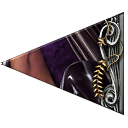
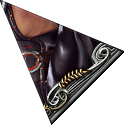
Selectable item in bopate cirlce

diff --git a/bopae_react/src/plugins/ListWithSearch.js b/bopae_react/src/plugins/ListWithSearch.js
@@ -46,6 +46,7 @@ class ListWithSearch extends Component {
 									<ListItem
 										key={i}
 										bopae={item}
+										selectedPieceNum={this.props.selectedPieceNum}
 										onClick={this.onItemChange.bind(this, item)}
 										isSelected={this.props.selectedItem === item}
 										className={nameMatches(item) ? '' : 'hidden'}
@@ -69,14 +70,14 @@ class ListItem extends Component {
 									<tr>
 										<td className="icon-cell">
 											<div className="icon">
-												{[7,8,1,2,3,4,5,6].map( i => <BopaePiece key={i} num={i} bopae={this.props.bopae}/>)}
+												{[6,7,0,1,2,3,4,5].map( i => <BopaePiece key={i} num={i} bopae={this.props.bopae}/>)}
 											</div>
 										</td>
 										<td>
 											<label>{this.props.bopae.name}</label>
 										</td>
 										<td>
-											<PieceDetail num={1} bopae={this.props.bopae}/>//TODO прокинуть номер куска
+											<PieceDetail num={this.props.selectedPieceNum} bopae={this.props.bopae}/>//TODO прокинуть номер куска
 										</td>
 									</tr>
 								</tbody>
@@ -84,28 +85,30 @@ class ListItem extends Component {
 						</div>
 	}
 }
+
 class BopaePiece extends Component{
 	render() {
-		let piece = this.props.bopae.pieces[this.props.num-1]
+		let piece = this.props.bopae.pieces[this.props.num]
 		return <div
 			className={"square piece piece-"+this.props.num}
 			style={{backgroundImage: 'url('+piece.getIconPath()+')'}}
 			></div>
 	}
 }
+
 class PieceDetail extends Component{
 	render() {
-		let piece = this.props.bopae.pieces[this.props.num]
+		let piece = this.props.bopae.pieces[this.props.num] || null
 		return (
 			<div className="piece-detail cf f_r">
 				<div className="left f_l">
 					<table>
 						<tbody>
 							{
-								Object.keys(piece.stats).forEach(statName =>
-									<tr className={piece.stats[statName].isBase === true ? 'main-stat' : ''} key={statName}>
+								piece && piece.forEachStat((statName, stat) =>
+									<tr className={stat.isBase ? 'main-stat' : ''} key={statName}>
 										<td> {statName} </td>
-										<td> {piece.stats[statName].min} - {piece.stats[statName].max} </td>
+										<td> {stat.min} - {stat.max} </td>
 									</tr>
 								)
 							}
@@ -113,7 +116,11 @@ class PieceDetail extends Component{
 					</table>
 				</div>
 				<div className="right f_r">
-					<BopaePiece num={this.props.num} bopae={this.props.bopae} />
+					{
+						this.props.num === null
+							? null
+							: <BopaePiece num={this.props.num} bopae={this.props.bopae} />
+					}
 				</div>
 			</div>
 		)

diff --git a/bopae_react/src/BopaeCircle.js b/bopae_react/src/BopaeCircle.js
@@ -1,20 +1,21 @@
 import React, { Component } from 'react'
 import './styles/bopae-circle.css'
+import bgImg from './img/bopae_circle_bg.png'
 
 const PART_WIDTH = 128
 const HOVER_DELTA_PX = 16
 
 function dir2rad(dir) {
-	return (dir-3)/4*Math.PI
+	return (dir-2)/4*Math.PI
 }
 
 function dir2deg(dir) {
-	return (dir-3)/4*180
+	return (dir-2)/4*180
 }
 
 function centerOffset(dir) {
 	let w = PART_WIDTH
-	return [[w/2,w], [0,w], [0,w/2], [0,0], [w/2,0], [w,0], [w,w/2], [w,w]][dir-1]
+	return [[w/2,w], [0,w], [0,w/2], [0,0], [w/2,0], [w,0], [w,w/2], [w,w]][dir]
 }
 
 class BopaePartMask extends Component {
@@ -36,9 +37,9 @@ class BopaePart extends Component {
 		let [hoverDX, hoverDY] = [Math.cos(angle)*HOVER_DELTA_PX, Math.sin(angle)*HOVER_DELTA_PX]
 		let transform = `translate(${hoverDX}px,${hoverDY}px)`
 		return (
-			<div className="bopae-part" style={{left: w-x0, top: w-y0, width: w, height: w}} onClick={this.props.onClick}>
+			<div className={`bopae-part${this.props.selected ? " selected" : ""}`} style={{left: w-x0, top: w-y0, width: w, height: w}} onClick={this.props.onClick}>
 				<BopaePartMask dir={this.props.dir} />
-				<img style={{transform}} alt={'bopae-'+this.props.dir} src={process.env.PUBLIC_URL +'/img/'+ this.props.name + this.props.dir +'.png'} />
+				<img style={{transform}} alt={'bopae-'+this.props.dir} src={this.props.icon} />
 			</div>
 		)
 	}
@@ -48,8 +49,15 @@ class BopaeCircle extends Component {
 	render() {
 		return (
 			<div className="bopae-circle" style={{width: PART_WIDTH*2, height: PART_WIDTH*2}}>
-				{[1,2,3,4,5,6,7,8].map((dir) =>
-					<BopaePart key={dir} dir={dir} name={this.props.name} onClick={(e) => this.props.onClick(e, dir)} />
+				<img alt="background" className="bopae-bg-image" src={bgImg} />
+				{this.props.pieces.map((piece, dir) =>
+					<BopaePart
+						key={dir}
+						dir={dir}
+						icon={piece && piece.getIconPath()}
+						selected={this.props.selectedNum === dir}
+						onClick={(e) => this.props.onClick(dir)}
+					/>
 				)}
 			</div>
 		)

diff --git a/bopae_react/src/dbutils.js b/bopae_react/src/dbutils.js
@@ -9,9 +9,6 @@ class Bopae {
 	getIconPath() {
 		return `${process.env.PUBLIC_URL}/img/${this.icon}.png`
 	}
-	getPiece(num) {
-		return this.pieces[num-1]
-	}
 }
 
 class BopaePiece {
@@ -27,6 +24,11 @@ class BopaePiece {
 	getStat(name) {
 		return name in this.stats ? this.stats[name] : [0, 0, false]
 	}
+	forEachStat(func) {
+		for (let statName in this.stats)
+			if (this.stats.hasOwnProperty(statName))
+				func(statName, this.stats[statName])
+	}
 }
 
 class BopaeDBUtils {
@@ -41,7 +43,7 @@ class BopaeDBUtils {
 
 	static convertBopae(bopae) {
 		let statsForNums = [{}, {}, {}, {}, {}, {}, {}, {}]
-		for (let statName in bopae.pieces) { //eslint-disable-line guard-for-in
+		for (let statName in bopae.pieces) {
 			if (bopae.pieces.hasOwnProperty(statName)) {
 				if (statName !== "synth") {
 					let stats = bopae.pieces[statName].trim().split(/\s+/).map(this.convertStat)
@@ -54,7 +56,7 @@ class BopaeDBUtils {
 
 		let pieces = new Array(8)
 		for (let i=0; i<pieces.length; i++) {
-			pieces[i] = new BopaePiece(i+1, bopae.icon, statsForNums[i], bopae.pieces.synth)
+			pieces[i] = new BopaePiece(i, bopae.icon, statsForNums[i], bopae.pieces.synth)
 		}
 
 		return new Bopae(bopae.name[this.lang], bopae.icon, bopae.obtaining[this.lang], pieces, bopae.bonus)

diff --git a/bopae_react/src/index.js b/bopae_react/src/index.js
@@ -2,9 +2,7 @@
 import React from 'react'
 import ReactDOM from 'react-dom'
 //собственно модули
-import BopaeList from './BopaeList'
-import BopaeCircle from './BopaeCircle'
-import BopaeCircle2 from './BopaeCircle2'
+import BopaeCalc from './BopaeCalc'
 //глобальные штучки-дрючки
 import './styles/global/reset.css'
 import './styles/global/utils.css'
@@ -14,8 +12,8 @@ import bopaeDB from './bopae.json'
 import BopaeDBUtils from './dbutils.js'
 
 let bopaes = BopaeDBUtils.convert(bopaeDB, 'ru')
-window.qwe = bopaes
-console.log(bopaes)
+window.bopaes = bopaes
+
 ReactDOM.render(
 	<div className="app">
 		<header>
@@ -28,18 +26,7 @@ ReactDOM.render(
 		<main>
 			<div className="main-bg"></div>
 			<div className="main-wrap">
-				<section>
-					<BopaeList db={bopaes}/>
-				</section>
-				<section>
-					<figure>
-						<BopaeCircle2 name={bopaes[0].icon} onClick={(e, dir) => alert('clicked on #'+dir)}/>
-					</figure>
-				</section>
-
-				{bopaes.map(item =>
-					<BopaeCircle key={item.name} name={item.icon} onClick={(e, dir) => alert(`clicked on ${item.name} #${dir}`)}/>
-				)}
+				<BopaeCalc bopaes={bopaes} />
 			</div>
 		</main>
 		<footer>

diff --git a/bopae_react/src/BopaeCalc.js b/bopae_react/src/BopaeCalc.js
@@ -1,0 +1,33 @@
+import React, { Component } from 'react'
+import BopaeList from './BopaeList'
+import BopaeCircle from './BopaeCircle'
+//import './styles/bopae-calc.css'
+
+class BopaeCalc extends Component {
+	constructor() {
+		super()
+		this.state = {
+			choosenPieces: Array(8).fill(null),
+			selectedNum: null
+		}
+	}
+	onPieceClick = (num) => {
+		this.setState({selectedNum: num})
+	}
+	render() {
+		return (
+			<div className="bopae-calc">
+				<section>
+					<BopaeList db={this.props.bopaes} selectedPieceNum={this.state.selectedNum}/>
+				</section>
+				<section>
+					<figure>
+						<BopaeCircle pieces={this.state.choosenPieces} selectedNum={this.state.selectedNum} onClick={this.onPieceClick}/>
+					</figure>
+				</section>
+			</div>
+		)
+	}
+}
+
+export default BopaeCalc

diff --git a/bopae_react/src/styles/bopae-circle.css b/bopae_react/src/styles/bopae-circle.css
@@ -2,6 +2,11 @@
 	position: relative;
 }
 
+.bopae-circle .bopae-bg-image {
+	margin-left: -23px;
+	margin-top: -23px;
+}
+
 .bopae-circle .bopae-part {
 	pointer-events: none;
 	position: absolute;
@@ -9,6 +14,9 @@
 .bopae-circle .bopae-part:hover {
 	z-index: 1;
 	filter: drop-shadow(0 0 4px green);
+}
+.bopae-circle .bopae-part.selected {
+	opacity: 0.5;
 }
 
 .bopae-circle .bopae-part img {

diff --git a/bopae_react/src/BopaeList.js b/bopae_react/src/BopaeList.js
@@ -19,6 +19,7 @@ class BopaeList extends Component {
 		return  <div className="bopae-list">
 							<ListWithSearch
 								data={this.props.db}
+								selectedPieceNum={this.props.selectedPieceNum}
 								selectedItem={this.state.selectedListItem}
 								onItemChange={this.onListItemChange.bind(this)}
 							/>
